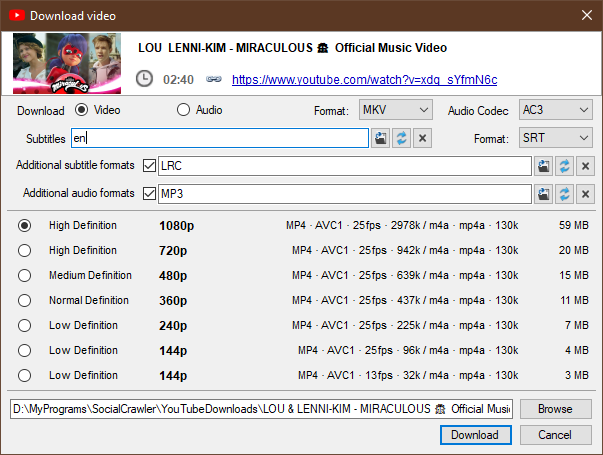
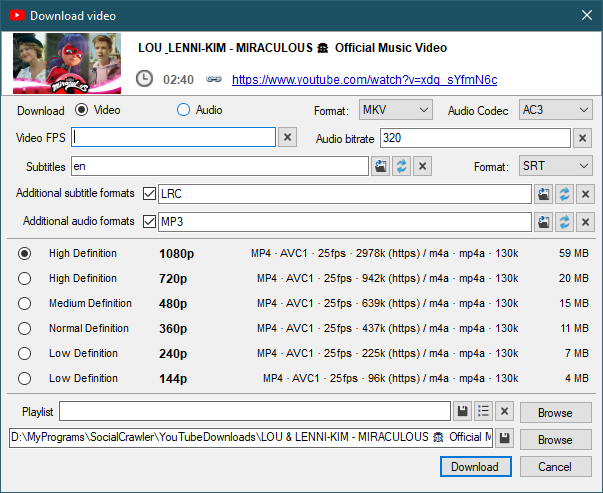
2024.4.10.0

diff --git a/Changelog.md b/Changelog.md
@@ -1,3 +1,71 @@
+# 2024.4.10.0
+
+*2024-04-10*
+
+**For those of you who use TikTok, it is highly recommended to update TikTok plugin (using [these instructions](https://github.com/AAndyProgram/SCrawler/wiki/Settings#how-to-install-yt-dlp-ttuser-plugin)) to the latest version!**
+
+**ATTENTION! This version includes changes to downloading groups (including the scheduler) and the settings file. Once you start using it, you won't be able to downgrade. I recommend making a backup of your SCrawler settings folder. It is also recommended to check all of your download groups settings and scheduler plans settings.**
+
+- Added
+  - Sites
+    - TikTok: more settings for standalone downloader
+    - Instagram:
+      - automatically reset download options after updating credentials
+      - **ability to extract an image (if it exists) from a video that contains a static image**
+      - updated reels downloading function
+      - GraphQL support
+      - request timers (per request)
+    - OnlyFans:
+      - **download stories**
+      - option to disable timeline downloading
+    - Reddit: added `Check image` setting (unchecked by default) to make Reddit downloading faster
+  - **YouTube (standalone app)**:
+    - **the ability to add downloaded item(s) to a playlist**
+    - **the ability to create a playlist from downloaded music**
+    - calculation and display of the actual size of downloaded files
+    - **the ability to change audio bitrate** *(you can also set the default bitrate in  `Defaults Audio` - `Bitrate`)*
+    - **embed thumbnail in the extracted audio (`mp3` only) as cover art** (Settings: `Defaults Audio` - `Embed thumbnail (extracted files)`)
+    - Exclude `drc` *(dynamic range compression)* from parsing results
+  - Standalone downloader: 
+    - allow thumbnail to be saved with file
+    - calculation and display of the actual size of downloaded files
+  - Feed:
+    - add hotkeys: `Home`, `End`, `Up`, `Page Up`, `Down`, `Page Down`
+    - ability to save/load views
+  - Scheduler: **`All` and `Default` options removed.** *Only `Disabled`, `Specified` and `Groups` are available.*
+  - Download groups: **filter users who have been (not)downloaded in the last `x` days** *(download groups, advanced filter (main window), scheduler)*.
+  - Main window:
+    - ability to save/load views (`View` - `Save/Load view`)
+    - **all filter options from the `View` menu have now been moved to `Filter`**
+  - Settings:
+    - ability to confirm mass download using the `F6` key *(to protect against accidental pressing) (`Settings` - `Behavior`)*
+    - the ability to find the program environment
+    - default headers (`Settings` - `Headers`)
+  - Added the ability to display group users *(works in scheduler, scheduler plans, download groups)*
+  - Added exclusion of last 3 days from deleting session files
+  - Other improvements
+- Updated
+  - **yt-dlp up to version 2024.04.09**
+- PluginProvider
+  - Add `PropertyValueEventArgs` class
+  - PropertyValue:
+    - add `Checked` parameter
+    - add `OnCheckboxCheckedChange` handler
+  - ISiteSettings:
+    - add `CMDEncoding`, `EnvironmentPrograms` properties
+    - add `EnvironmentProgramsUpdated` function
+- Fixed
+  - Sites
+    - PornHub: some videos won't download
+    - xHamster:
+      - some videos are missing when downloading creators
+      - user videos aren't downloading
+    - **JustForFans: fixed video downloading**
+    - TikTok (standalone downloader): files with long names aren't downloaded
+  - Users: incorrect decision to set last update date, which resulted in an incorrect last download date for some users
+  - Feed: a scrolling bug where the feed scrolls up after returning to it
+  - Minor bugs
+
 # 2024.2.25.0
 
 *2024-02-25*

diff --git a/CONTRIBUTING.md b/CONTRIBUTING.md
@@ -8,9 +8,10 @@ I welcome requests! Follow these steps to contribute:
 1. If you have a code change suggestion, you can post a replacement code block.<!-- I also accept pull requests.-->
 
 # How to report a problem
-1. Attach a **profile URL** that you cannot download.
+1. Attach the **profile URLs or links** that you cannot download.
 1. Attach the **LOG** if it exists.
-1. **Attach information to the issue with data copied from SCrawler (click the top right info button in the main window, then the `Environment` button, then the `Copy` button, and paste the copied text into the issue).**
+1. **Attach the environment information copied from SCrawler (click the top right info button in the main window, then the `Environment` button, then the `Copy` button, and paste the copied text into the issue).**
+1. *Add screenshots to illustrate the problem (**optional**)*
 
 # How to build from source
 1. Delete the `PersonalUtilities` project from the solution.
